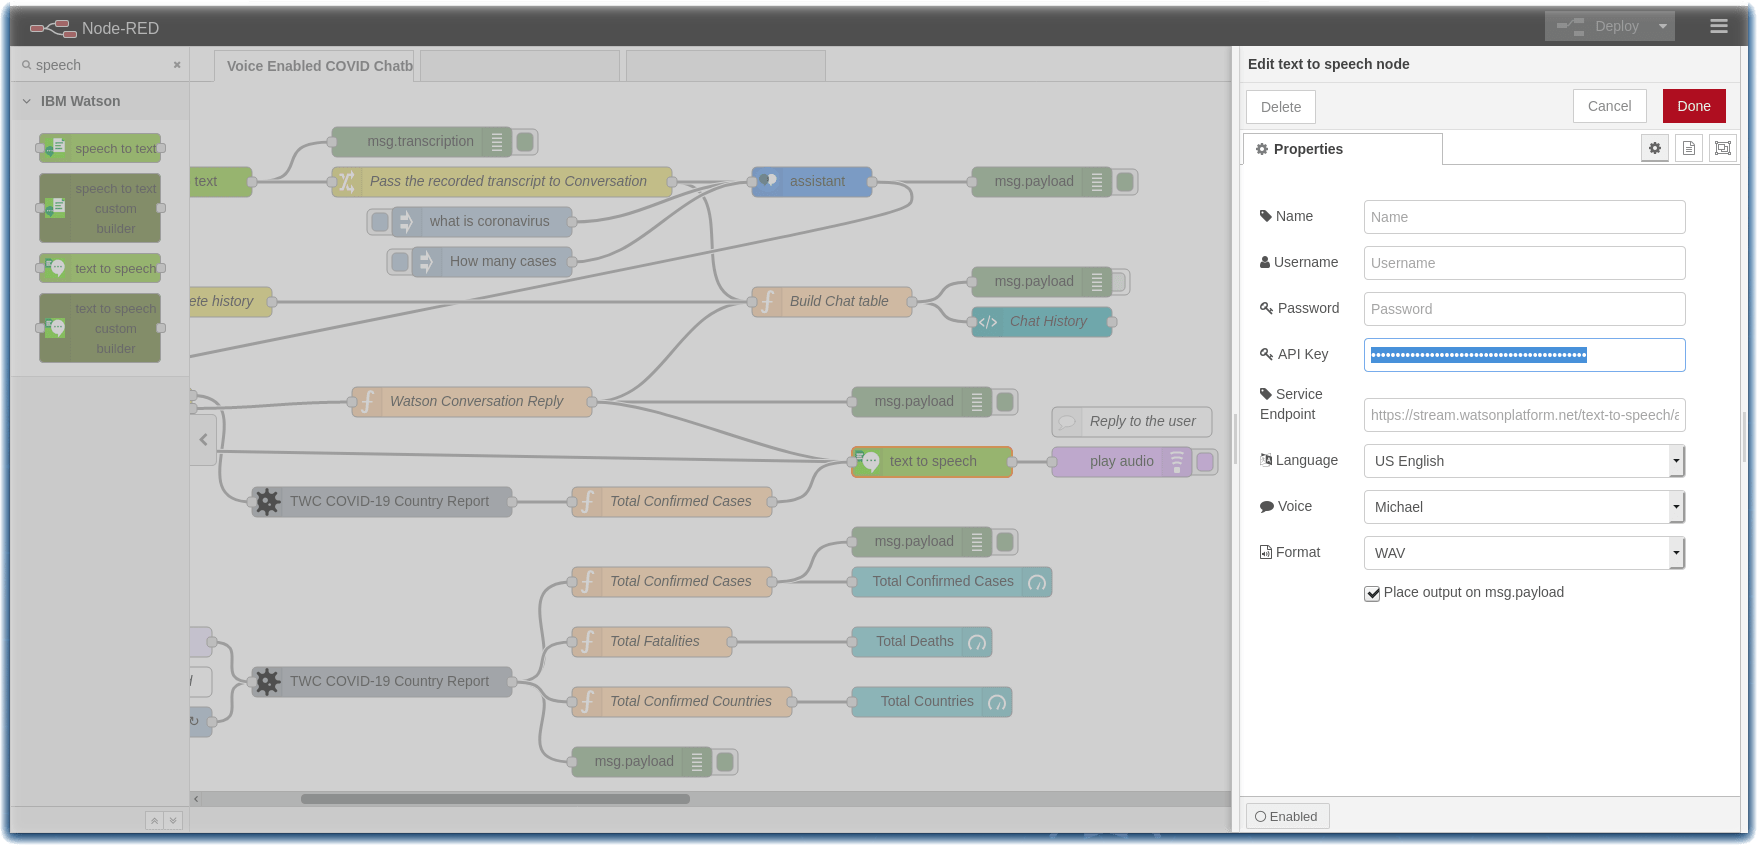
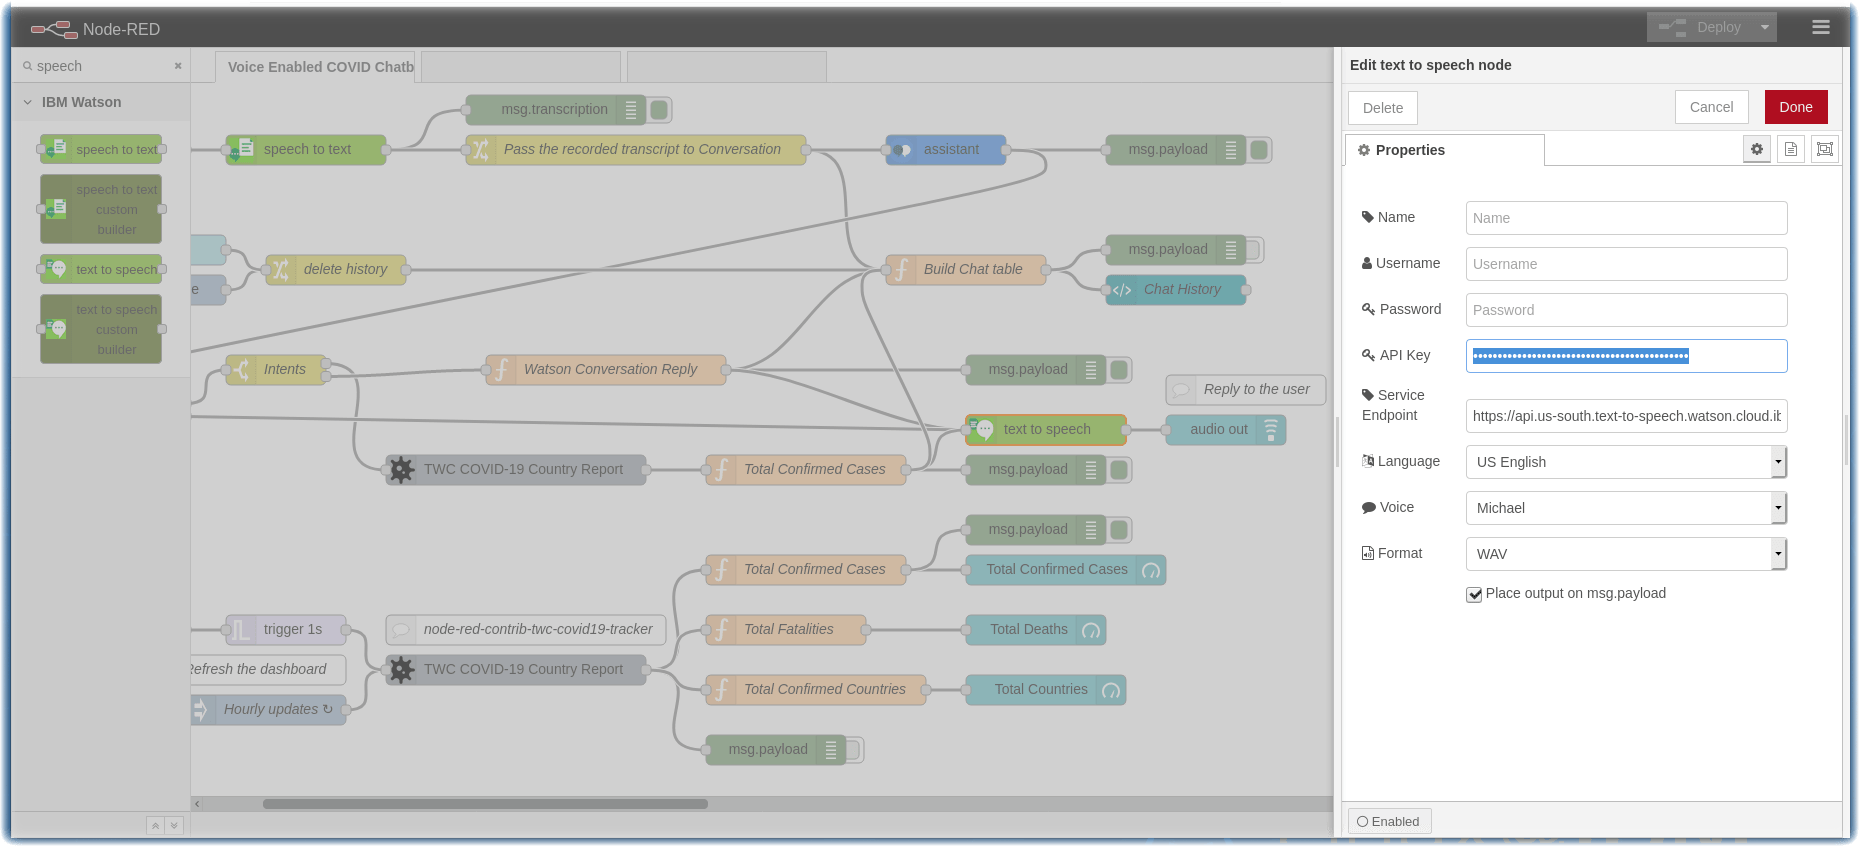
Replace Play Audio node #38

diff --git a/starter-kit/node-red/README.md b/starter-kit/node-red/README.md
@@ -57,13 +57,12 @@ After Node-RED is installed, add the dependencies for this tutorial:
 - [node-red-node-ui-microphone](https://flows.nodered.org/node/node-red-node-ui-microphone)
 - [node-red-dashboard](https://flows.nodered.org/node/node-red-dashboard)
 - [node-red-node-watson](https://flows.nodered.org/node/node-red-node-watson)
-- [node-red-contrib-play-audio](https://flows.nodered.org/node/node-red-contrib-play-audio)
 - [node-red-contrib-twc-covid19-tracker](https://flows.nodered.org/node/node-red-contrib-twc-covid19-tracker)
 
 #### Local installation instructions
 
 ```
-npm install node-red-node-ui-microphone node-red-dashboard node-red-node-watson node-red-contrib-play-audio node-red-contrib-twc-covid19-tracker
+npm install node-red-node-ui-microphone node-red-dashboard node-red-node-watson  node-red-contrib-twc-covid19-tracker
 ```
 
 #### IBM Cloud installation instructions
@@ -73,7 +72,6 @@ npm install node-red-node-ui-microphone node-red-dashboard node-red-node-watson 
 ```
 "node-red-node-ui-microphone":"0.x",
 "node-red-dashboard":"2.x",
-"node-red-contrib-play-audio":"2.x",
 "node-red-contrib-twc-covid19-tracker":"0.x",
 ```
 
